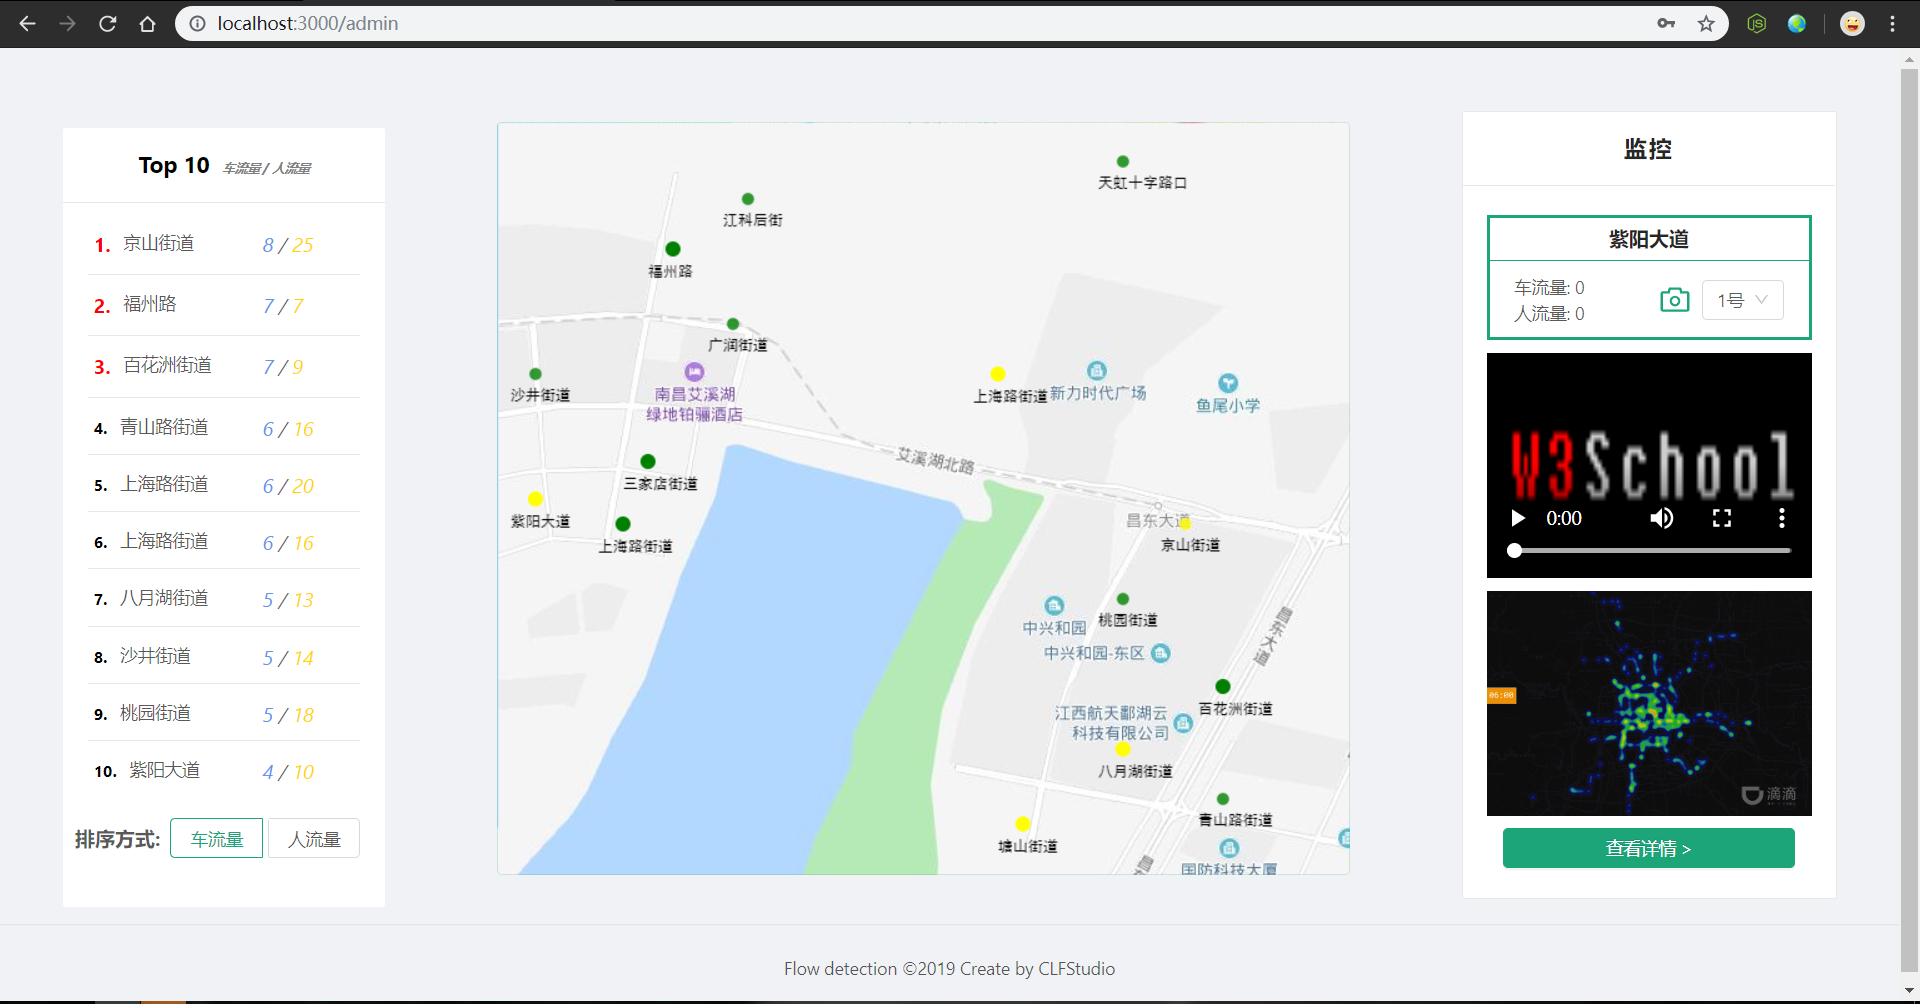
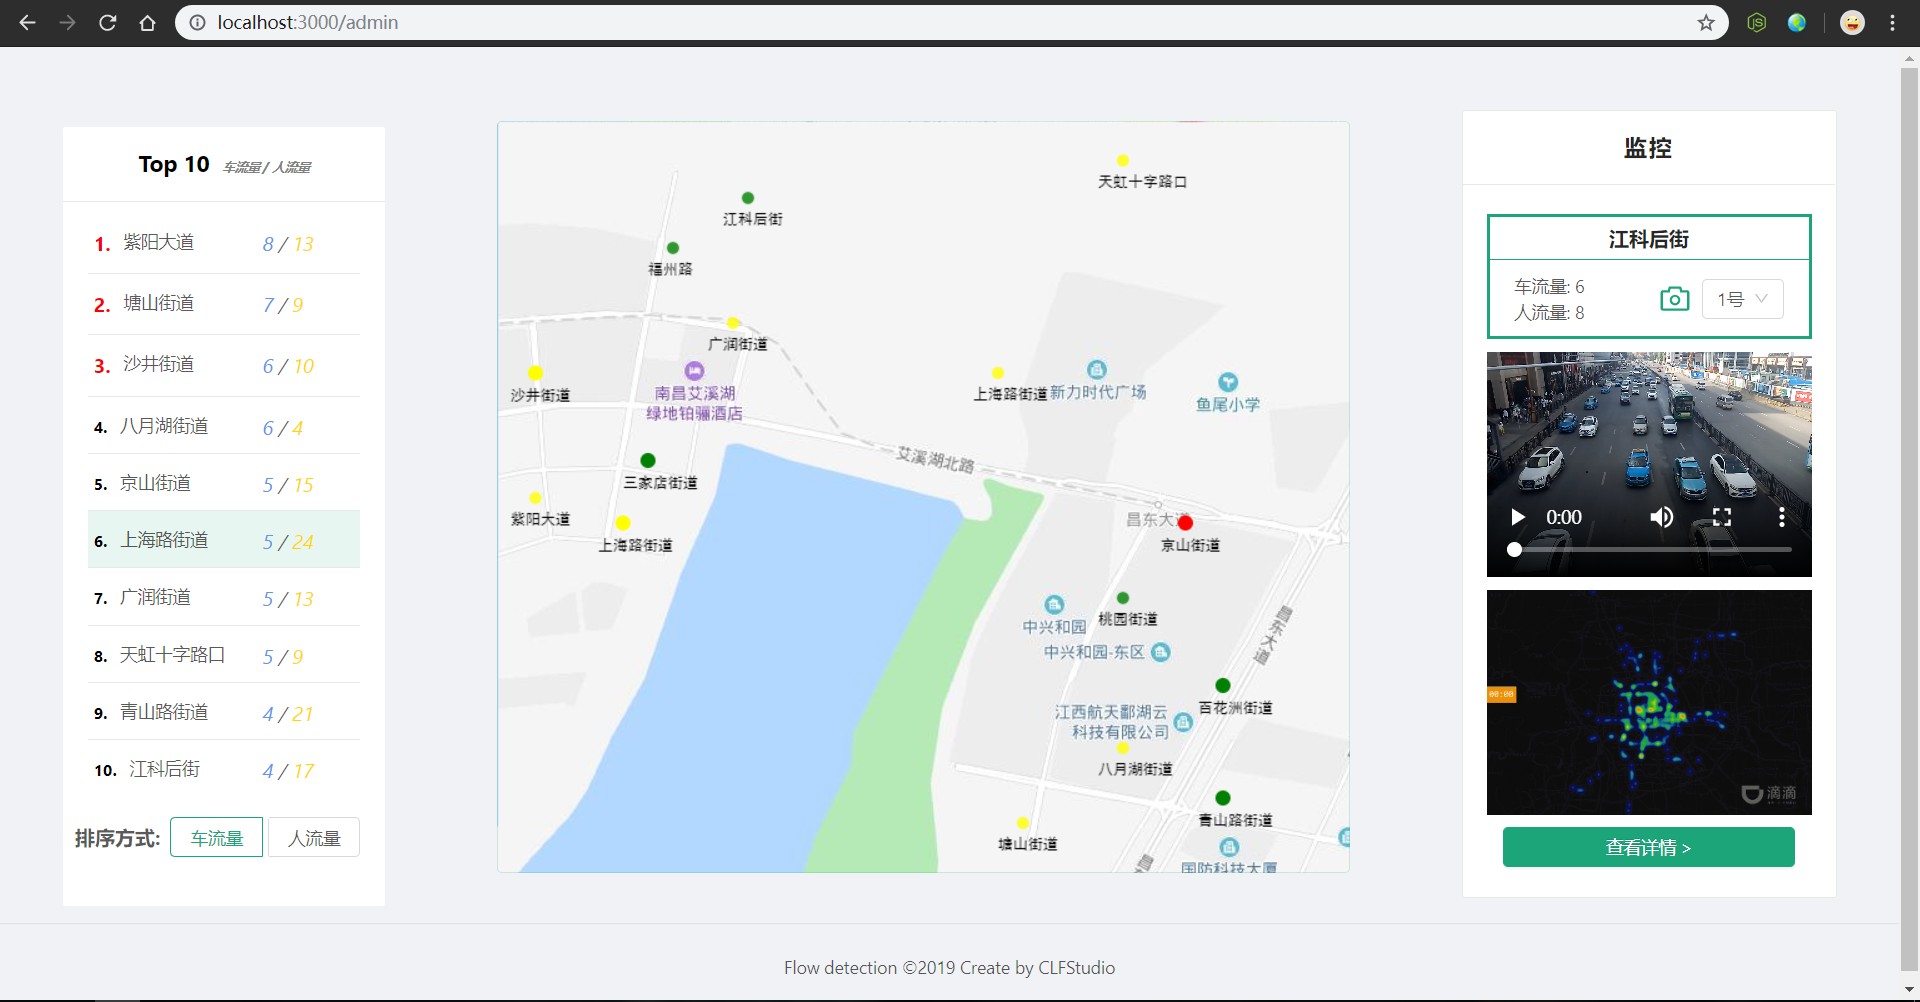
refactor(mock): replace the real video addr

diff --git a/src/components/monitor/index.tsx b/src/components/monitor/index.tsx
@@ -8,11 +8,13 @@ import { Street, StreetCamera } from '../../models/Street';
 interface DataPanelProps {
     street: Street;
     currentCamera: StreetCamera;
+    onSelectCamera: (index: number) => void;
 }
 
-const DataPanel = React.memo(({ street, currentCamera }: DataPanelProps) => {
+const DataPanel = React.memo(({ street, currentCamera, onSelectCamera }: DataPanelProps) => {
     const { name: streetName } = street;
     const { carFlow, humanFlow } = currentCamera;
+    const handleSelect = (index: number) => onSelectCamera(index);
     return (
         <div className="data-panel">
             <h3 className="data-panel-header">{streetName}</h3>
@@ -21,7 +23,7 @@ const DataPanel = React.memo(({ street, currentCamera }: DataPanelProps) => {
                     <span>{`车流量: ${carFlow}`}</span>
                     <span>{`人流量: ${humanFlow}`}</span>
                 </div>
-                <CameraSelect cameras={street.cameras} />
+                <CameraSelect cameras={street.cameras} onSelect={handleSelect} />
             </div>
         </div>
     );
@@ -43,6 +45,9 @@ export const Monitor = React.memo(({ street }: MonitorProps) => {
     React.useEffect(() => setCamera(initCamera), [initCamera]);
     const { videoAddress } = currentCamera;
     const MonitorTitle = React.useMemo(() => <span className="title">{`监控`}</span>, []);
+    const handleSelectCamera = (index: number) => {
+        setCamera(street.cameras[index]);
+    };
 
     return (
         <Card
@@ -52,14 +57,8 @@ export const Monitor = React.memo(({ street }: MonitorProps) => {
             bodyStyle={bodyStyle}
             bordered
         >
-            <DataPanel street={street} currentCamera={currentCamera} />
-            <video
-                className="player"
-                src={videoAddress}
-                preload="auto"
-                poster="http://www.w3school.com.cn/i/w3school_logo_black.gif"
-                controls
-            />
+            <DataPanel street={street} currentCamera={currentCamera} onSelectCamera={handleSelectCamera} />
+            <video className="player" src={videoAddress} controls />
             <img
                 className="thermal-map"
                 src="https://timgsa.baidu.com/timg?image&quality=80&size=b9999_10000&sec=1556881105125&di=49eb598830ef5326de2d91ca66e069a2&imgtype=0&src=http%3A%2F%2Fimages.dtcj.com%2FDTCJ%2F88fe74feca25a6217b3665d355b0d23fad7daa65a6a48a2fd2cfb6850d71343d.jpg%3Fwidth%3D756%26height%3D505"

diff --git a/src/pages/admin/detail/index.tsx b/src/pages/admin/detail/index.tsx
@@ -1,17 +1,40 @@
 import * as React from 'react';
+import _ from 'lodash';
 import './style.scss';
+import { streetsVideosAddress } from '../../../api/streetApi';
 
 export const Detail = React.memo(() => {
+    const [{ carFlow, humanFlow }, setFlowData] = React.useState({
+        carFlow: 6,
+        humanFlow: 10,
+    });
+    const videoAddress = React.useMemo(() => streetsVideosAddress[_.random(0, 8)], []);
+
+    React.useEffect(() => {
+        const timer = setInterval(() => {
+            const newFlowData = {
+                carFlow: _.random(2, 10),
+                humanFlow: _.random(4, 15),
+            };
+
+            setFlowData(newFlowData);
+        }, 1000);
+
+        return () => {
+            clearInterval(timer);
+        };
+    }, []);
+
     return (
         <main className="admin-detail">
             <div className="detail-header">
                 <span className="data-item">
                     <span className="data-desc">车流量:</span>
-                    <span className="data-value">6</span>
+                    <span className="data-value">{carFlow}</span>
                 </span>
                 <span className="data-item">
                     <span className="data-desc">人流量:</span>
-                    <span className="data-value">10</span>
+                    <span className="data-value">{humanFlow}</span>
                 </span>
                 <span className="data-item current-address">
                     <span className="data-desc">当前位置:</span>
@@ -21,7 +44,7 @@ export const Detail = React.memo(() => {
             <div className="admin-detail-body">
                 <div className="monitor-container">
                     <span>监控</span>
-                    <img className="detail-monitor" src="https://i.loli.net/2019/05/03/5ccc22980d0af.png" />
+                    <video className="detail-monitor" src={videoAddress} controls />
                 </div>
                 <div className="thermal-map-container">
                     <span>热力图</span>

diff --git a/src/components/cameraSelect/index.tsx b/src/components/cameraSelect/index.tsx
@@ -6,21 +6,28 @@ const { Option } = Select;
 
 interface CameraSelectProps {
     cameras: StreetCamera[];
+    onSelect: (index: number) => void;
 }
 
-export const CameraSelect = React.memo(({ cameras }: CameraSelectProps) => {
+export const CameraSelect = React.memo(({ cameras, onSelect }: CameraSelectProps) => {
     const CameraOptions = React.useMemo(() => {
         return cameras.map(({ serialNumber }) => (
             <Option key={`${serialNumber}`} value={serialNumber}>{`${serialNumber}号`}</Option>
         ));
     }, [cameras]);
 
+    const handleChange = (value: string) => {
+        onSelect(Number.parseInt(value) - 1);
+    };
+
     return (
         <div className="camera-select">
             <Tooltip title="当前摄像头">
                 <Icon className="camera-icon" type="camera" />
             </Tooltip>
-            <Select defaultValue="1号">{CameraOptions}</Select>
+            <Select defaultValue="1号" onChange={handleChange}>
+                {CameraOptions}
+            </Select>
         </div>
     );
 });

diff --git a/src/api/streetApi.ts b/src/api/streetApi.ts
@@ -1,7 +1,17 @@
 import { Street, StreetCamera } from '../models/Street';
 import _ from 'lodash';
 
-const streetVideosAddress = [''];
+export const streetsVideosAddress = [
+    require('../assets/videos/1.mp4'),
+    require('../assets/videos/2.mp4'),
+    require('../assets/videos/3.mp4'),
+    require('../assets/videos/4.mp4'),
+    require('../assets/videos/5.mp4'),
+    require('../assets/videos/6.mp4'),
+    require('../assets/videos/7.mp4'),
+    require('../assets/videos/8.mp4'),
+    require('../assets/videos/9.mp4'),
+];
 
 interface FakerStreetItem {
     name: string;
@@ -97,7 +107,7 @@ export const getStreets = async (): Promise<Street[]> => {
                     serialNumber: arrayIndex + 1,
                     carFlow: _.random(1, 10),
                     humanFlow: _.random(2, 30),
-                    videoAddress: '',
+                    videoAddress: streetsVideosAddress[_.random(0, 8)],
                 };
             }),
             x,

diff --git a/src/pages/user/home/index.tsx b/src/pages/user/home/index.tsx
@@ -1,18 +1,21 @@
 import * as React from 'react';
 import { Link } from 'react-router-dom';
 import { Button } from 'antd';
-import { Map } from '../../../components';
+import { RankingList, Map } from '../../../components';
 import './style.scss';
 
 export const Home = React.memo(() => {
     return (
         <main className="home">
-            <Map />
-            <Link to="/recommend">
-                <Button className="check-recommend" size="default" type="primary">
-                    查看推荐路线
-                </Button>
-            </Link>
+            <RankingList onSelectStreet={() => {}} />
+            <div className="map-container">
+                <Map />
+                <Link to="/recommend">
+                    <Button className="check-recommend" size="default" type="primary">
+                        查看推荐路线→
+                    </Button>
+                </Link>
+            </div>
         </main>
     );
 });

diff --git a/src/pages/user/recommend/index.tsx b/src/pages/user/recommend/index.tsx
@@ -1,6 +1,5 @@
 import * as React from 'react';
 import { Popover, Input, Steps, Card } from 'antd';
-import { CameraSelect } from '../../../components';
 import { StreetCamera } from '../../../models/Street';
 import './style.scss';
 const Search = Input.Search;
@@ -68,6 +67,8 @@ export const Recommend = () => {
         return <Popover content={renderPopoverContent(index, status, title, description)}>{dot}</Popover>;
     };
 
+    const handleSelectCamera = () => {};
+
     return (
         <main className="recommend">
             <div className="recommend-header">
@@ -75,7 +76,6 @@ export const Recommend = () => {
                     <span className="hint">当前位置:</span>
                     <span className="address">紫阳大道</span>
                 </div>
-                <CameraSelect cameras={cameras} />
                 <Search
                     className="search-path-box"
                     placeholder="输入目的地"

diff --git a/src/pages/admin/home/index.tsx b/src/pages/admin/home/index.tsx
@@ -6,13 +6,13 @@ import { Street } from '../../../models/Street';
 
 export const Home = React.memo(() => {
     const defaultObservingStreet: Street = {
-        name: '紫阳大道',
+        name: '当前未选择',
         cameras: [
             {
                 serialNumber: 1,
                 carFlow: 0,
                 humanFlow: 0,
-                videoAddress: 'http://www.w3school.com.cn/i/movie.ogg',
+                videoAddress: '',
             },
         ],
         x: 0,

diff --git a/src/pages/user/home/style.scss b/src/pages/user/home/style.scss
@@ -1,10 +1,20 @@
 .home {
     display: flex;
-    flex-direction: column;
     align-items: center;
     margin-top: 20px;
 
-    .check-recommend {
-        margin-top: 20px;
+    .ranking-list {
+        margin-left: 50px;
+    }
+
+    .map-container {
+        display: flex;
+        flex-direction: column;
+        align-items: center;
+        margin: 0 150px;
+
+        .check-recommend {
+            margin-top: 10px;
+        }
     }
 }

diff --git a/src/pages/admin/detail/style.scss b/src/pages/admin/detail/style.scss
@@ -47,6 +47,7 @@
             .detail-monitor {
                 width: 500px;
                 height: 350px;
+                object-fit: fill;
             }
         }
 

diff --git a/README.md b/README.md
@@ -16,7 +16,7 @@
 npm install
 ```
 
-#### 修复一个bug
+#### 修复一个 "@types/react": "^16.8.6" ref.current 定义为 readonly 的 bug
 
 将 `node_modules\@types\react\index.d.ts` 中 72 行的 `readonly` 删掉。
 
